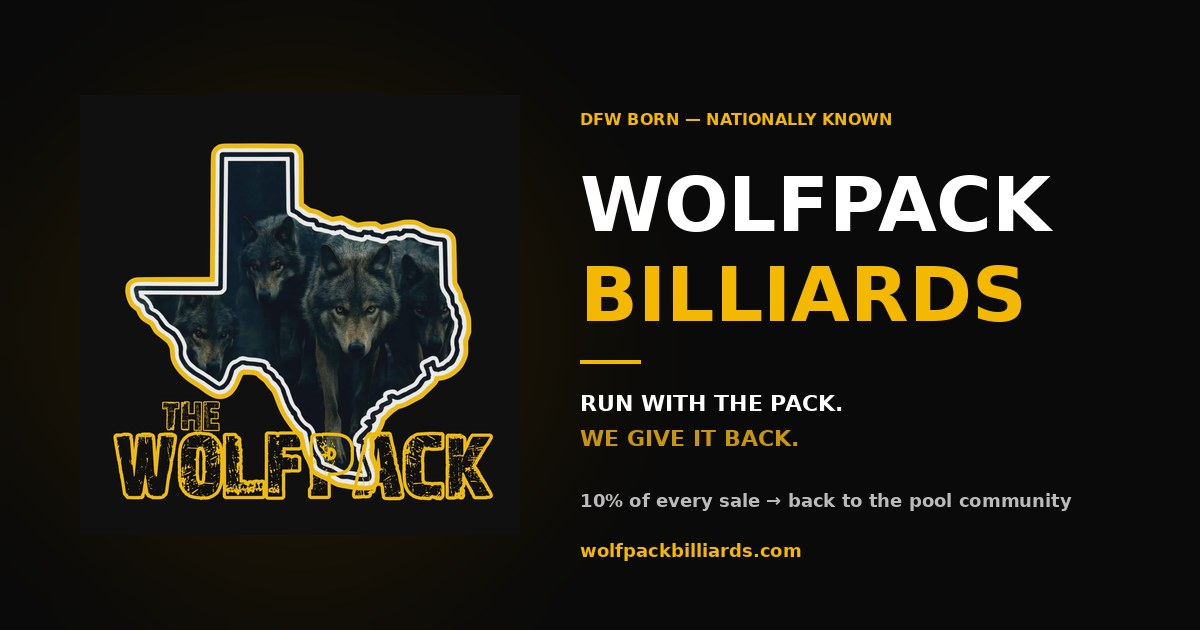
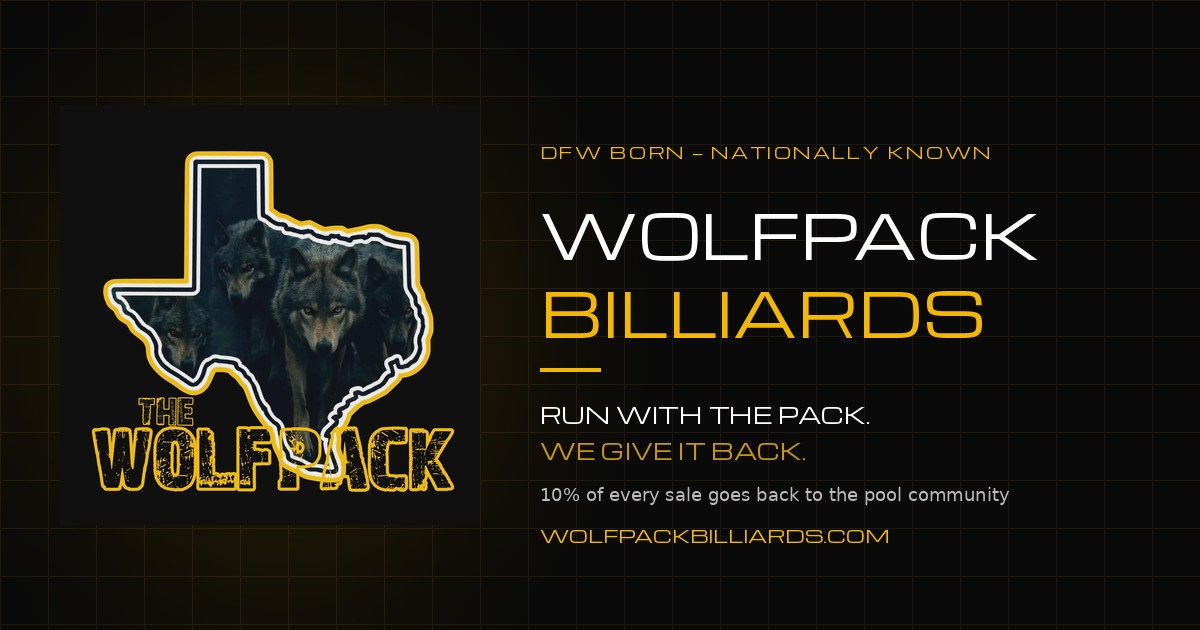
Add files via upload
Brand Michroma OG card + team dinner + TX2LV tour stop

diff --git a/index.html b/index.html
@@ -183,6 +183,22 @@ section{padding:5rem 2rem}
 .event-card-large h3{font-family:'Michroma',sans-serif;font-size:1.4rem;color:var(--white);text-transform:uppercase;letter-spacing:2px;margin-bottom:0.5rem}
 .event-card-large p{color:var(--gray-light);font-size:0.95rem;margin-bottom:0.75rem;line-height:1.7}
 .events-more{text-align:center;color:var(--gray);font-style:italic;margin-top:1.5rem;font-size:0.92rem}
+.event-card-flyer{background:var(--black-card);border:1px solid rgba(245,184,0,0.15);border-top:3px solid var(--gold);margin:3rem auto 2rem;max-width:880px;display:grid;grid-template-columns:300px 1fr;gap:0;text-align:left;overflow:hidden}
+.event-card-flyer .flyer-img{background:#000;display:flex;align-items:center;justify-content:center;padding:1rem}
+.event-card-flyer .flyer-img img{max-width:100%;max-height:460px;width:auto;height:auto;display:block;box-shadow:0 4px 20px rgba(0,0,0,0.5)}
+.event-card-flyer .body{padding:2rem}
+.event-card-flyer .meta{font-family:'Michroma',sans-serif;font-size:0.7rem;color:var(--gold);text-transform:uppercase;letter-spacing:3px;margin-bottom:0.5rem}
+.event-card-flyer h3{font-family:'Michroma',sans-serif;font-size:1.3rem;color:var(--white);text-transform:uppercase;letter-spacing:2px;margin-bottom:0.5rem;line-height:1.2}
+.event-card-flyer p{color:var(--gray-light);font-size:0.95rem;margin-bottom:0.75rem;line-height:1.6}
+.event-card-flyer .stat-row{display:flex;gap:1.25rem;flex-wrap:wrap;margin:1.25rem 0;padding:1rem 0;border-top:1px solid rgba(245,184,0,0.15);border-bottom:1px solid rgba(245,184,0,0.15)}
+.event-card-flyer .stat{display:flex;flex-direction:column}
+.event-card-flyer .stat-label{font-family:'Michroma',sans-serif;font-size:0.55rem;color:var(--gold-dark);letter-spacing:2px;text-transform:uppercase;margin-bottom:0.25rem}
+.event-card-flyer .stat-val{font-family:'Michroma',sans-serif;font-size:0.85rem;color:var(--white);letter-spacing:1px}
+@media(max-width:720px){
+  .event-card-flyer{grid-template-columns:1fr}
+  .event-card-flyer .flyer-img{padding:1.5rem}
+  .event-card-flyer .flyer-img img{max-height:none;width:80%}
+}
 
 /* LEAGUES */
 .leagues{background:var(--black)}
@@ -288,6 +304,10 @@ footer{background:var(--black-mid);border-top:1px solid rgba(245,184,0,0.15);pad
       <div class="gallery-item">
         <img src="bca_world_championships.jpg" alt="BCA World Championships">
         <div class="gallery-caption">BCA World Championships</div>
+      </div>
+      <div class="gallery-item">
+        <img src="team_dinner.jpg" alt="Wolfpack Pack Family Dinner">
+        <div class="gallery-caption">Pack Family · Off The Felt</div>
       </div>
     </div>
   </div>
@@ -478,6 +498,24 @@ footer{background:var(--black-mid);border-top:1px solid rgba(245,184,0,0.15);pad
     <div class="section-label">On The Road</div>
     <h2 class="section-title">Tour Stops</h2>
     <div class="gold-divider center-divider"></div>
+
+    <div class="event-card-flyer">
+      <div class="flyer-img">
+        <img src="tx2lvpromo.jpg" alt="TX2LV Dream Team Invitational tournament flyer">
+      </div>
+      <div class="body">
+        <div class="meta">May 23–24, 2026 · Sat &amp; Sun</div>
+        <h3>TX2LV Dream Team Invitational</h3>
+        <p>An exclusive USAPL invitational bringing top talent from across Texas and Louisiana — cash, bragging rights, regional pride. Hosted by <strong>Doc's Billiards Office</strong>.</p>
+        <div class="stat-row">
+          <div class="stat"><span class="stat-label">Format</span><span class="stat-val">16-Team Mod. Single Elim.</span></div>
+          <div class="stat"><span class="stat-label">Entry</span><span class="stat-val">$500 / team</span></div>
+          <div class="stat"><span class="stat-label">Calcutta</span><span class="stat-val">Online + Side Pots</span></div>
+        </div>
+        <p style="font-size:0.88rem"><strong>Invited:</strong> Houston USAPL · Louisiana USAPL · San Antonio USAPL · Brazos County USAPL · plus 8–10 from TX2LV USA Pool Leagues</p>
+        <p style="font-style:italic;color:var(--gold-dark);margin-top:1rem">Where Texas goes 2 Las Vegas.</p>
+      </div>
+    </div>
 
     <div class="event-card-large">
       <img src="Wolfpack_TexasBarTableChampionship_Landscape.png" alt="Texas Bar Table Championship">
